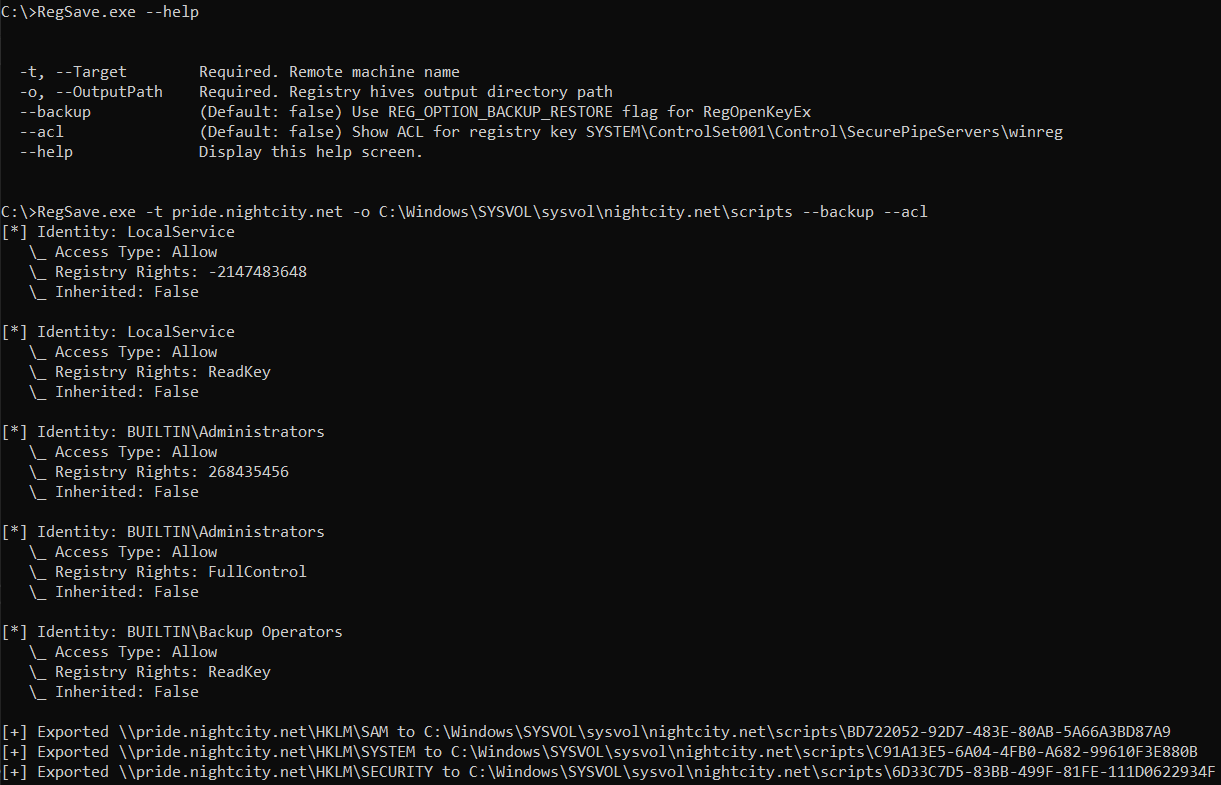
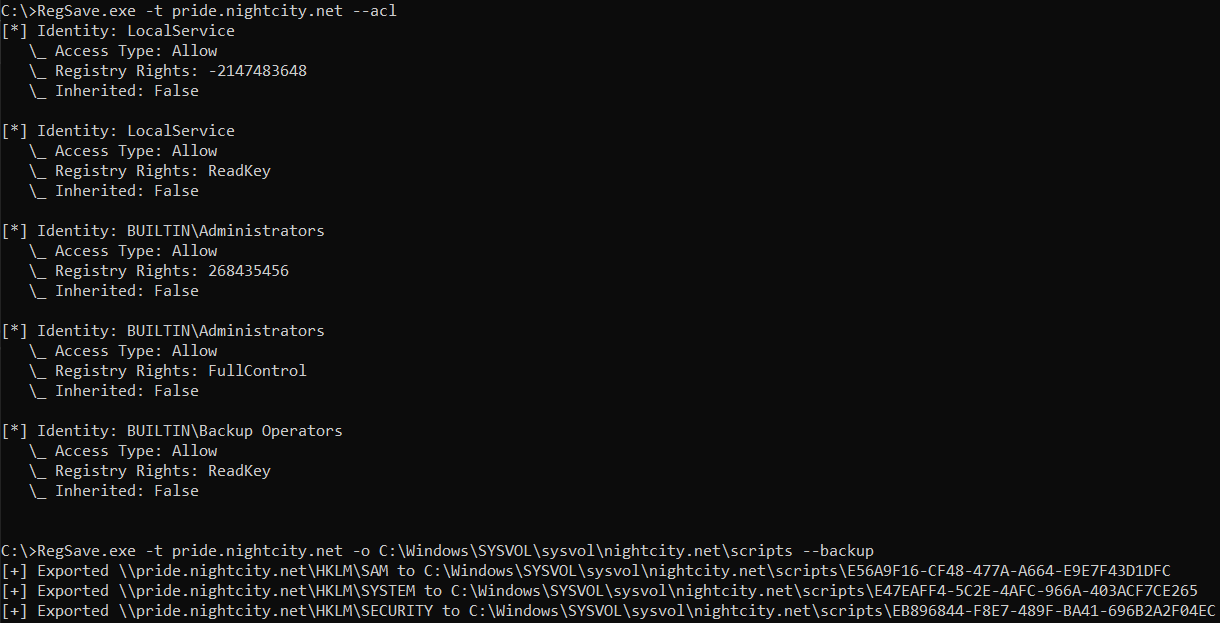
Edit --acl switch logic

diff --git a/RegSave/Program.cs b/RegSave/Program.cs
@@ -14,13 +14,13 @@ namespace RegSave
             [Option('t', "Target", Required = true, HelpText = "Remote machine name")]
             public string Target { get; set; }
 
-            [Option('o', "OutputPath", Required = true, HelpText = "Registry hives output directory path")]
+            [Option('o', "OutputPath", HelpText = "Registry hives output directory path")]
             public string OutputPath { get; set; }
 
             [Option("backup", Default = false, HelpText = "Use REG_OPTION_BACKUP_RESTORE flag for RegOpenKeyEx")]
             public bool BackupOperators { get; set; }
 
-            [Option("acl", Default = false, HelpText = @"Show ACL for registry key SYSTEM\ControlSet001\Control\SecurePipeServers\winreg")]
+            [Option("acl", Default = false, HelpText = @"Show ACL for registry key SYSTEM\ControlSet001\Control\SecurePipeServers\winreg and exit")]
             public bool ShowAcl { get; set; }
         }
 
@@ -48,11 +48,14 @@ namespace RegSave
             {
                 if (showAcl)
                     Reg.GetAcl(remoteMachine, @"SYSTEM\ControlSet001\Control\SecurePipeServers\winreg");
-                //Privileges.EnableDisablePrivilege("SeBackupPrivilege", true);
-                //Privileges.EnableDisablePrivilege("SeRestorePrivilege", true);
-                Reg.ExportRegKey(remoteMachine, "SAM", Path.Combine(registryPath, Guid.NewGuid().ToString().ToUpper()), backupOperators);
-                Reg.ExportRegKey(remoteMachine, "SYSTEM", Path.Combine(registryPath, Guid.NewGuid().ToString().ToUpper()), backupOperators);
-                Reg.ExportRegKey(remoteMachine, "SECURITY", Path.Combine(registryPath, Guid.NewGuid().ToString().ToUpper()), backupOperators);
+                else
+                {
+                    //Privileges.EnableDisablePrivilege("SeBackupPrivilege", true);
+                    //Privileges.EnableDisablePrivilege("SeRestorePrivilege", true);
+                    Reg.ExportRegKey(remoteMachine, "SAM", Path.Combine(registryPath, Guid.NewGuid().ToString().ToUpper()), backupOperators);
+                    Reg.ExportRegKey(remoteMachine, "SYSTEM", Path.Combine(registryPath, Guid.NewGuid().ToString().ToUpper()), backupOperators);
+                    Reg.ExportRegKey(remoteMachine, "SECURITY", Path.Combine(registryPath, Guid.NewGuid().ToString().ToUpper()), backupOperators);
+                }
             }
             catch (Exception e)
             {
@@ -77,7 +80,6 @@ namespace RegSave
 
             var parser = new Parser(with => with.HelpWriter = null);
             var parserResult = parser.ParseArguments<Options>(args);
-
             try
             {
                 parserResult

diff --git a/README.md b/README.md
@@ -8,9 +8,10 @@ A .NET application that will dump SAM, SYSTEM, SECURITY registry keys from a rem
 C:\>RegSave.exe --help
 
   -t, --Target        Required. Remote machine name
-  -o, --OutputPath    Required. Registry hives output directory path
+  -o, --OutputPath    Registry hives output directory path
   --backup            (Default: false) Use REG_OPTION_BACKUP_RESTORE flag for RegOpenKeyEx
   --acl               (Default: false) Show ACL for registry key SYSTEM\ControlSet001\Control\SecurePipeServers\winreg
+                      and exit
   --help              Display this help screen.
 ```
 
